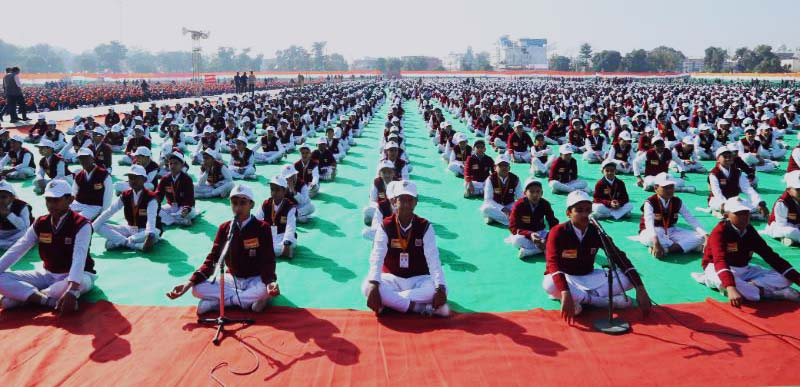
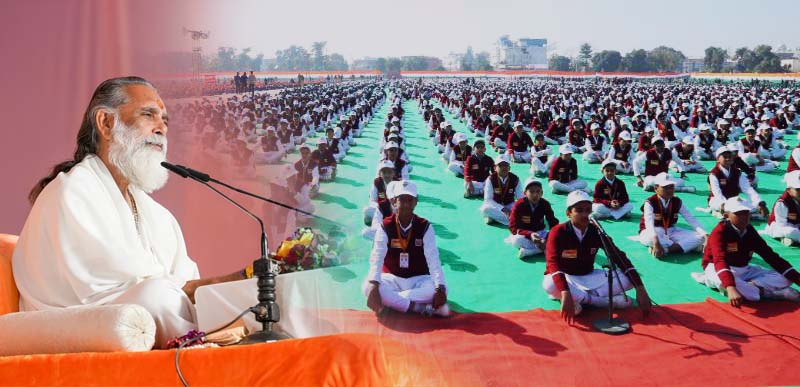
changed images

diff --git a/day-2-bhakti-yoga-evening.php b/day-2-bhakti-yoga-evening.php
@@ -39,7 +39,7 @@ require_once('parts/page-title.php');
                 <div class="service-details__left">
 
                     <div class="service-details__img-one">
-                        <img src="assets/images/services/bkti-evening.jpg" alt="">
+                        <img src="assets/images/services/banner.jpg" alt="Manchester Gita Festival 2025 – Bhakti Yoga Evening">
                     </div>
 
                     <!-- Bhakti Yoga Evening -->
